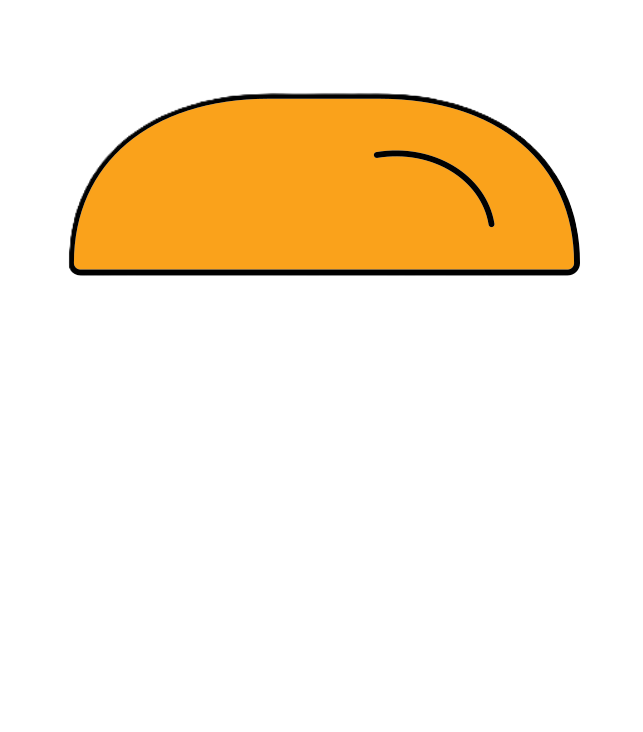
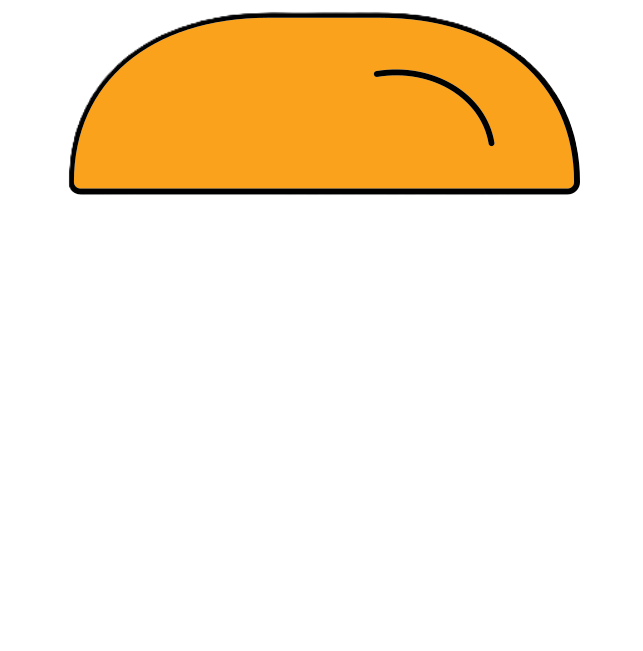
continued catching game but can't get burger components to stay

Changed region(s): [[0.0933, 0.0, 0.902, 0.3994]]

diff --git a/minigames.py b/minigames.py
@@ -60,7 +60,7 @@ def draw(WIN, draw, x1, y1, x2, y2, x3, y3, x4, y4):
     WIN.blit(canvas, [x/2 - canvasSize[0]/2, y/2 - canvasSize[1]/2])
     pygame.display.update()
 
-def assembly(window_x, window_y, WIN, main1Bg_image, bgPosition, assembly):
+def assembly2(window_x, window_y, WIN, main1Bg_image, bgPosition, assembly):
     hand_width = 100
     hand_height = 100
     hand_x = window_x // 2 - hand_width
@@ -69,8 +69,6 @@ def assembly(window_x, window_y, WIN, main1Bg_image, bgPosition, assembly):
     component_width = 150
     component_height = 250
     component_speed = 5
-    component_x = random.randint(0, window_x - component_width)
-    component_y = -component_height
     count = 0
 
     #images
@@ -101,6 +99,10 @@ def assembly(window_x, window_y, WIN, main1Bg_image, bgPosition, assembly):
     component_y = -component_height
     
     while count != 7 and assembly == True:
+        
+        #WIN.blit(main1Bg_image, bgPosition)
+        hand_rect = WIN.blit(hand_image, (hand_x, hand_y))
+        component_rect = WIN.blit(burgerLayer_images[count], (component_x, component_y))
 
         for event in pygame.event.get():
             if event.type == pygame.QUIT:
@@ -109,7 +111,7 @@ def assembly(window_x, window_y, WIN, main1Bg_image, bgPosition, assembly):
                 break
         
         #moving the hand left and right
-        keys = pygame.key.get_pressed()
+        '''keys = pygame.key.get_pressed()
         if keys[pygame.K_LEFT] == True or keys[pygame.K_a] == True:
             hand_x -= hand_speed
         if keys[pygame.K_RIGHT] == True or keys[pygame.K_d] == True:
@@ -121,11 +123,24 @@ def assembly(window_x, window_y, WIN, main1Bg_image, bgPosition, assembly):
         if hand_x > window_x - component_width:
             hand_x = window_x - hand_width
         
-        component_y += component_speed
+        component_y += component_speed'''
 
+        if event.type == pygame.KEYDOWN:
+            if event.key == pygame.K_LEFT or event.key == pygame.K_a:
+                hand_x -= hand_speed
+            if event.key == pygame.K_RIGHT or event.key == pygame.K_d:
+                hand_x -= hand_speed
+        
+        if hand_x <= 0:
+            hand_x = 0
+        elif hand_x >= window_x:
+            hand_x = window_x
 
-        WIN.blit(main1Bg_image, bgPosition)
-        WIN.blit(hand_image, (hand_x, hand_y))
+        if component_y > window_y:
+            component_x = random.randint(0, window_x - component_width)
+            component_y = -component_height
+
+        '''WIN.blit(main1Bg_image, bgPosition)
         #checking whether the user catches the component
         if component_y == window_y:
             if count != 6:
@@ -156,10 +171,92 @@ def assembly(window_x, window_y, WIN, main1Bg_image, bgPosition, assembly):
         WIN.blit(burgerLayer_images[count], (component_x, component_y))
         if count == 6:
             count = count + 1
-            assembly = False
+            assembly = False'''
 
         pygame.display.update()
     
     return assembly
         
+def assembly(window_x, window_y, WIN, main1Bg_image, bgPosition, assembly):
+    hand_width = 150
+    hand_height = 150
+    hand_x = window_x // 2 - hand_width
+    hand_y = window_y - hand_height - 20
+    hand_speed = 10
+    component_width = 200
+    component_height = 100
+    component_speed = 5
+    count = 0
 
+    #images
+    hand_image = pygame.image.load(os.path.join('Culinary Quest ASSETS','hand.png'))
+    topBun_image = pygame.image.load(os.path.join('Culinary Quest ASSETS','burger_bun.png'))
+    bottomBun_image = pygame.image.load(os.path.join('Culinary Quest ASSETS','burger_bottombun.png'))
+    cheeseLayer_image = pygame.image.load(os.path.join('Culinary Quest ASSETS','burger_cheese.png'))
+    lettuceLayer_image = pygame.image.load(os.path.join('Culinary Quest ASSETS','burger_lettuce.png'))
+    onionLayer_image = pygame.image.load(os.path.join('Culinary Quest ASSETS','burger_onion.png'))
+    meatLayer_image = pygame.image.load(os.path.join('Culinary Quest ASSETS','burger_meat.png'))
+    tomatoLayer_image = pygame.image.load(os.path.join('Culinary Quest ASSETS','burger_tomato.png'))
+    
+    #transforming images
+    hand_image = pygame.transform.scale(hand_image, (hand_width, hand_height))
+    topBun_image = pygame.transform.scale(topBun_image, (component_width, component_height))
+    bottomBun_image = pygame.transform.scale(bottomBun_image, (component_width, component_height))
+    cheeseLayer_image = pygame.transform.scale(cheeseLayer_image, (component_width, component_height))
+    lettuceLayer_image = pygame.transform.scale(lettuceLayer_image, (component_width, component_height))
+    onionLayer_image = pygame.transform.scale(onionLayer_image, (component_width, component_height))
+    meatLayer_image = pygame.transform.scale(meatLayer_image, (component_width, component_height))
+    tomatoLayer_image = pygame.transform.scale(tomatoLayer_image, (component_width, component_height))
+
+    burgerLayer_images = [bottomBun_image, lettuceLayer_image, meatLayer_image, cheeseLayer_image, tomatoLayer_image, onionLayer_image, topBun_image]
+    burgerLayer_bool = [False, False, False, False, False, False, False]
+
+    #WIN.blit(hand_image, (hand_x, hand_y))
+    component_x = random.randint(0, window_x - component_width)
+    component_y = 0
+    
+    clock = pygame.time.Clock()
+    while assembly == True and count != 8:
+        clock.tick(60)
+        WIN.blit(main1Bg_image, bgPosition)
+        component_rect = WIN.blit(burgerLayer_images[count], (component_x, component_y))
+        hand_rect = WIN.blit(hand_image, (hand_x, hand_y))
+
+        for event in pygame.event.get():
+            if event.type == pygame.QUIT:
+                pygame.quit()
+                sys.exit()
+                break
+
+        keys = pygame.key.get_pressed()
+        if keys[pygame.K_LEFT] == True or keys[pygame.K_a] == True:
+            hand_x -= hand_speed
+        if keys[pygame.K_RIGHT] == True or keys[pygame.K_d] == True:
+            hand_x += hand_speed
+
+        if hand_x <= 0:
+            hand_x = 0
+        elif hand_x >= (window_x - hand_width):
+            hand_x = (window_x - hand_width)
+        
+        component_y += component_speed
+
+        if component_y > window_y:
+            if count != 7:
+                count = count+1
+            component_x = random.randint(0, window_x - component_width)
+            component_y = 0
+        elif hand_rect.colliderect(component_rect):
+            if count != 7:
+                count = count+1
+            if count == 0:
+                burgerLayer_bool[0] = True
+
+        
+        if count == 7:
+            count = count + 1
+            assembly = False
+
+        pygame.display.update()
+
+    return assembly

diff --git a/Culinary_Quest.py b/Culinary_Quest.py
@@ -1694,8 +1694,8 @@ def minigameScreen(minigameLoop):
 
     arrow = Text(200, 112, "<--", login_red1, 500)
     while minigameLoop:
-        WIN.blit(main1Bg_image, bgPosition)
-        pygame.display.update()
+        #WIN.blit(main1Bg_image, bgPosition)
+        #pygame.display.update()
 
         while draw:
             arrow.drawText()
